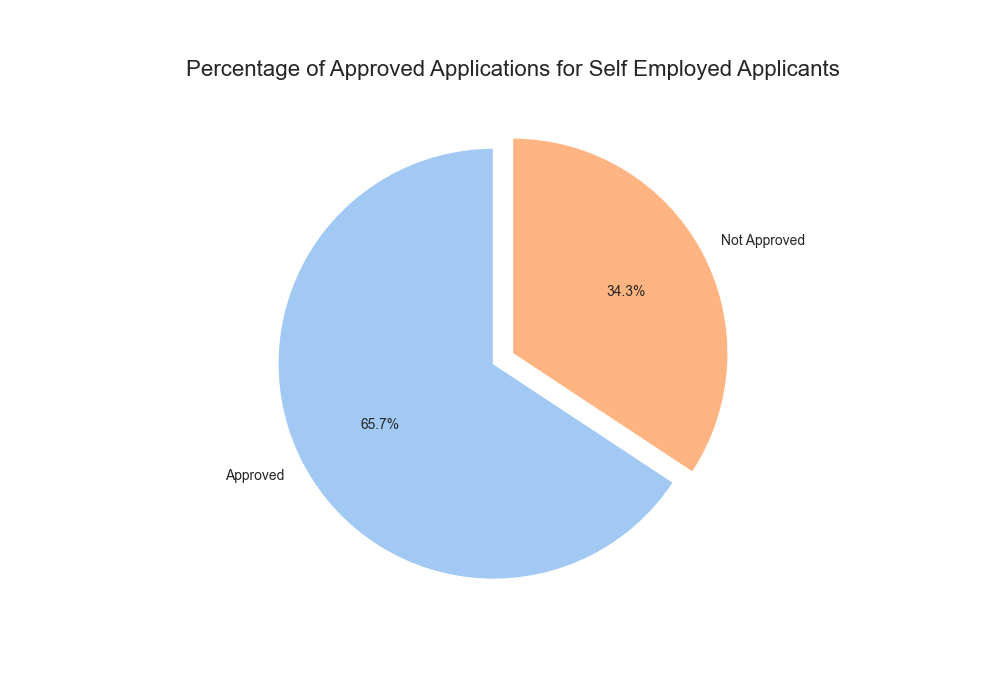
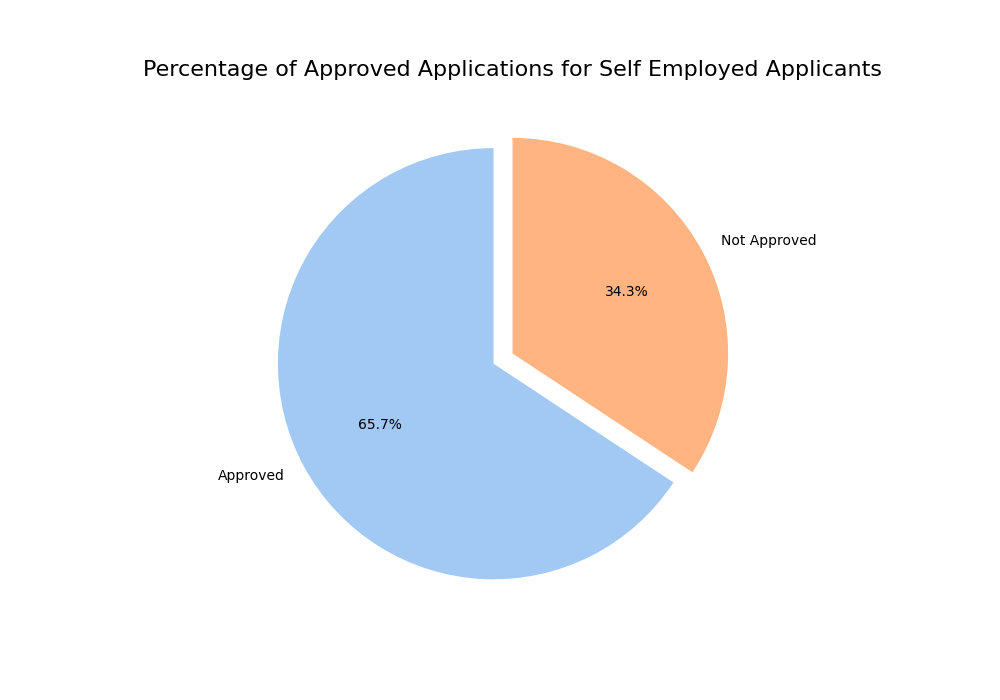
final

diff --git a/cc_&_loan_data_analysis_visualization.py b/cc_&_loan_data_analysis_visualization.py
@@ -33,7 +33,6 @@ data1 = pd.DataFrame({
 })
 
 # Set seaborn style
-sns.set_style('whitegrid')
 colors = sns.color_palette("pastel")
 
 # Create pie chart
@@ -45,6 +44,7 @@ plt.title('Percentage of Approved Applications for Self Employed Applicants', fo
 
 # save the plot
 plt.savefig('visualizations/5.1_self_employed_approval_percentage.png')
+print("Plot saved as 'visualizations/5.1_self_employed_approval_percentage.png'")
 plt.close()
 
 # -----5.2-----
@@ -70,6 +70,7 @@ plt.title('Percentage of Rejected Applications for Married Male Applicants', fon
 
 # save the plot
 plt.savefig('visualizations/5.2_married_male_rejection_percentage.png')
+print("Plot saved as 'visualizations/5.2_married_male_rejection_percentage.png'")
 plt.close()
 
 # -----5.3-----
@@ -117,6 +118,7 @@ for i, v in enumerate(data3['Transaction_Count']):
 plt.tight_layout()
 
 plt.savefig('visualizations/5.3_top_3_months_transaction_volume.png')
+print("Plot saved as 'visualizations/5.3_top_3_months_transaction_volume.png'")
 plt.close()
 
 # -----5.4-----
@@ -139,15 +141,6 @@ branch_df = spark.read \
 # branch_df.select('BRANCH_CODE').distinct().show()
 
 # Perform the join, filter, group by, and aggregation
-healthcare_transactions = cc_df.alias('cc') \
-    .join(branch_df.alias('br'), col('cc.BRANCH_CODE') == col('br.BRANCH_CODE')) \
-    .filter(col('cc.TRANSACTION_TYPE') == 'Healthcare') \
-    .groupBy('br.BRANCH_CODE', 'br.BRANCH_NAME', 'br.BRANCH_STATE', 'br.BRANCH_ZIP') \
-    .agg(sum('cc.TRANSACTION_VALUE').alias('TOTAL_VALUE')) \
-    .orderBy(desc('TOTAL_VALUE')) \
-    .limit(10)  # Get top 10 branches
-
-# Your existing Spark code
 healthcare_transactions = cc_df.alias('cc') \
     .join(branch_df.alias('br'), col('cc.BRANCH_CODE') == col('br.BRANCH_CODE')) \
     .filter(col('cc.TRANSACTION_TYPE') == 'Healthcare') \
@@ -184,6 +177,7 @@ plt.tight_layout()
 
 # Save the plot
 plt.savefig('visualizations/5.4_top_branches_healthcare_transactions.png')
+print("Plot saved as 'visualizations/5.4_top_branches_healthcare_transactions.png'")
 plt.close()
 
 

diff --git a/cc_data_analysis_visualization.py b/cc_data_analysis_visualization.py
@@ -23,7 +23,6 @@ total = transaction_type_df['TRANSACTION_COUNT'].sum()
 transaction_type_df['PERCENTAGE'] = transaction_type_df['TRANSACTION_COUNT'] / total * 100
 
 # Set the style and color palette
-sns.set_style("whitegrid")
 colors = sns.color_palette("pastel")
 
 # Create explode tuple (0.1 for the largest slice, 0 for others)
@@ -63,9 +62,6 @@ LIMIT 10
         
 customer_number_df = pd.read_sql(top_10_states_customer_number_query, engine)
 
-# Set the style
-sns.set_style("whitegrid")
-sns.set_palette("pastel")
 
 # Create the bar plot
 plt.figure(figsize=(14,7))
@@ -102,8 +98,6 @@ LIMIT 10
 top_10_customer_df = pd.read_sql(top_10_customers_query, engine)
 top_10_customer_df['FULL_NAME'] = top_10_customer_df['FIRST_NAME'] + ' ' + top_10_customer_df['LAST_NAME']
 
-sns.set_style('whitegrid')
-sns.set_palette('pastel') 
 
 plt.figure(figsize=(14, 7))
 ax = sns.barplot(x='FULL_NAME', y='TOTAL', data=top_10_customer_df)
